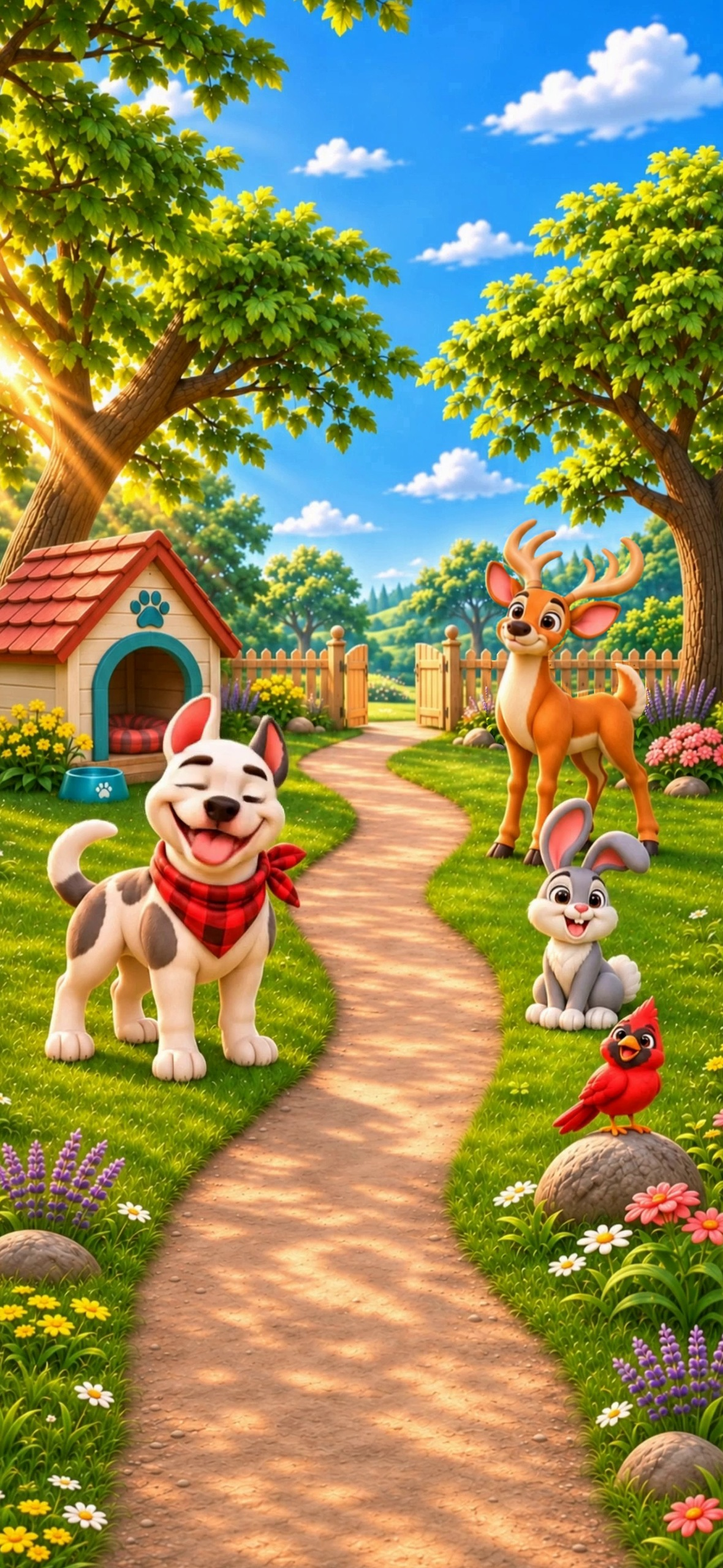
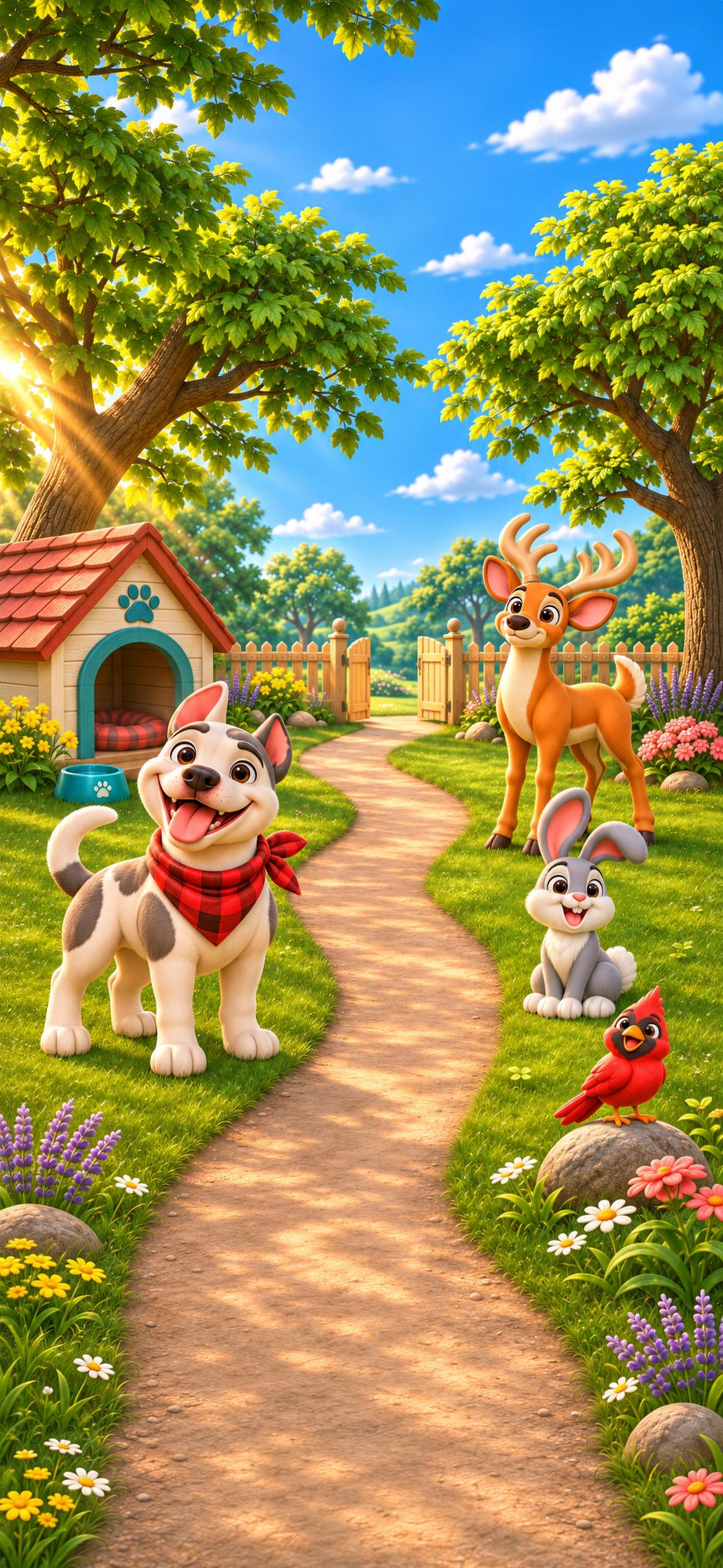
Map: all scenes still, Scene 1 back to the original art
Claude-Session: https://claude.ai/code/session_01HqXo8rXUgYFQ9xU7wUgcZu

diff --git a/bovo10/index.html b/bovo10/index.html
@@ -1,5 +1,5 @@
 <!doctype html>
-<html><head><meta charset="utf-8"><meta name="gbb-build" content="1795634110"><script src="../review_shim.js?v=4"></script><script src="../seamloop.js?v=3"></script><script src="../mp4box.min.js?v=1"></script><script src="../gaploop.js?v=1"></script><script src="livepaint.js?v=5"></script><script src="fountain.js?v=1"></script><script src="mapfx.js?v=3"></script><script src="../economy.js?v=2"></script><script src="../col.js?v=1"></script><script src="../fontA.js?v=5"></script><script src="../audio.js?v=33"></script><script src="../ui_life.js?v=18"></script>
+<html><head><meta charset="utf-8"><meta name="gbb-build" content="1795663621"><script src="../review_shim.js?v=4"></script><script src="../seamloop.js?v=3"></script><script src="../mp4box.min.js?v=1"></script><script src="../gaploop.js?v=1"></script><script src="livepaint.js?v=5"></script><script src="fountain.js?v=1"></script><script src="mapfx.js?v=3"></script><script src="../economy.js?v=2"></script><script src="../col.js?v=1"></script><script src="../fontA.js?v=5"></script><script src="../audio.js?v=33"></script><script src="../ui_life.js?v=18"></script>
 <meta name="viewport" content="width=device-width,initial-scale=1,maximum-scale=1,viewport-fit=cover">
 <title>Good Boy Bobo — Backyard map</title>
 <style>
@@ -28,7 +28,7 @@ html,body{margin:0;height:100%;overflow:hidden;background:#0d5f5f}
 #tag{position:fixed;z-index:9;left:8px;top:calc(var(--sat,env(safe-area-inset-top)) + 86px);font:700 11px system-ui;color:#fff;background:rgba(200,40,40,.85);padding:5px 8px;border-radius:9px}
 #hint{position:fixed;z-index:9;left:50%;transform:translateX(-50%);top:calc(var(--sat,env(safe-area-inset-top)) + 150px);font:800 14px system-ui;color:#fff;background:rgba(0,0,0,.45);padding:7px 12px;border-radius:14px;transition:opacity .6s}
 </style></head><body>
-<div id="scbg" style="position:fixed;inset:-40px;background:url(s1/still.jpg?v=4) center/cover;filter:blur(18px) brightness(.8)"></div><div id="sc"></div>
+<div id="scbg" style="position:fixed;inset:-40px;background:url(s1/still.jpg?v=5) center/cover;filter:blur(18px) brightness(.8)"></div><div id="sc"></div>
 <div id="hud"><div id="chn"><small>CHAPTER 1</small><span>The Backyard</span></div><div class="c3" style="left:calc(var(--w)*20.3);width:calc(var(--w)*113);height:calc(var(--w)*34.1)"><img src="../ui3/v2/cnt_heart.webp?v=2" alt="" style="position:absolute;left:-.71%;top:.232%;width:101.371%;height:101.848%"><div class="t" id="hH" style="left:36%;width:34%">5</div></div>
 <div class="c3" style="left:calc(var(--w)*142.5);width:calc(var(--w)*143);height:calc(var(--w)*34.6)"><img src="../ui3/v2/cnt_bone.webp?v=2" alt="" style="position:absolute;left:.054%;top:.229%;width:100.13%;height:100.376%"><div class="t" id="hB" style="left:32%;width:43%;height:97%">430</div></div>
 <div class="c3" style="left:calc(var(--w)*337.2);margin-top:calc(var(--w)*-1.4);width:calc(var(--w)*36.9);height:calc(var(--w)*37.8)"><img src="../ui3/v2/gear.webp?v=2" alt="" style="position:absolute;left:-1.519%;top:1.495%;width:102.376%;height:99.133%"></div></div>
@@ -119,7 +119,7 @@ function size(){const DPR=Math.min(2.5,devicePixelRatio||1),CW=window.GBB_COL?GB
 // ---- living scenes: MiniMax loop per scene (same frame at start and end, run-up file for an invisible iPhone hand-off).
 // Characters are frozen inside the clip; only the world moves. Only the scene on screen (and its neighbour) keeps a video.
 const LIVEV='?v=19';
-const LIVE_OK=new Set(['s1']);   // rebuilt seamless loops: these move even while MAP_MOTION is off
+const LIVE_OK=new Set([]);   // rebuilt seamless loops: these move even while MAP_MOTION is off
 function liveOn(S){if(S.lv||S.still||!window.SeamLoop||!(motion||LIVE_OK.has(S.dir)))return;
  if(S.paint&&window.LivePaint){   // living painting: the art itself moved by a wind field (no video)
   const PC=S.paint===1?{chars:1}:{chars:0,plate:'still.jpg'};const P=LivePaint(S,{...PC,v:'?v=2',amp:S.paint.amp,onFirst:()=>{if(S.lv&&S.lv.P===P){S.live=1;const g=S.fx.getContext('2d');g.clearRect(0,0,S.fx.width,S.fx.height)}}});
@@ -141,7 +141,7 @@ function liveOn(S){if(S.lv||S.still||!window.SeamLoop||!(motion||LIVE_OK.has(S.d
   rv.addEventListener('playing',()=>{if(S.lv)rv.style.opacity=S.rain>.5?.6:.44},{once:true});RL.play()}
  v.addEventListener('playing',()=>{if(!S.lv)return;v.style.opacity=1;S.live=1;setTimeout(()=>{const g=S.fx.getContext('2d');g.clearRect(0,0,S.fx.width,S.fx.height)},650)},{once:true});L.play()}
 function liveOff(S){if(!S.lv)return;if(S.lv.P){S.lv.P.close();S.lv=null;S.live=0;return}if(S.lv.G){S.lv.G.close();S.lv.cv.remove();if(S.lv.c)S.lv.c.remove();S.lv=null;S.live=0;return}S.lv.L.pause();if(S.lv.RL){S.lv.RL.pause();for(const e of S.lv.RL.els){e.removeAttribute('src');try{e.load()}catch(_){}e.remove()}}for(const e of S.lv.L.els){e.removeAttribute('src');try{e.load()}catch(_){}e.remove()}if(S.lv.c)S.lv.c.remove();S.lv=null;S.live=0}
-function ensure(S){if(!MAP_MOTION||(window.SeamLoop&&motion)){if(!S.under){const im=new Image();im.decoding='async';im.src=S.dir+'/still.jpg?v=4';im.style.cssText='position:absolute;inset:0;width:100%;height:100%;display:block';S.art.insertBefore(im,S.art.firstChild);S.under=im}return}  // living scenes: a light still under the video, no WebGL textures
+function ensure(S){if(!MAP_MOTION||(window.SeamLoop&&motion)){if(!S.under){const im=new Image();im.decoding='async';im.src=S.dir+'/still.jpg?v=5';im.style.cssText='position:absolute;inset:0;width:100%;height:100%;display:block';S.art.insertBefore(im,S.art.firstChild);S.under=im}return}  // living scenes: a light still under the video, no WebGL textures
  if(S.gl||S.loading)return;S.loading=1;initGL(S).finally(()=>S.loading=0)}
 function drop(S){if(!S.gl||S.loading)return;const e=S.gl.getExtension('WEBGL_lose_context');e&&e.loseContext();const c=document.createElement('canvas');c.width=S.cv.width;c.height=S.cv.height;S.art.replaceChild(c,S.cv);S.cv=c;S.gl=null;S.ready=0}
 function initGL(S){if(!S.under){const im=new Image();im.src=S.dir+'/scene.png?v=6';im.style.cssText='position:absolute;inset:0;width:100%;height:100%;display:block';S.art.insertBefore(im,S.art.firstChild);S.under=im}
@@ -159,7 +159,7 @@ function initGL(S){if(!S.under){const im=new Image();im.src=S.dir+'/scene.png?v=
 // ---- soft seams between scenes: where one picture ends and the next begins, each side gets a short blurred,
 // mirrored strip of its neighbour that fades out, so the hard dirt-to-sky line melts into a soft blend.
 // Drawn inside the art (under the markers, which stay sharp), so it scrolls with the pictures.
-const SEAMIMG={};function seamImg(S){if(!SEAMIMG[S.dir]){const im=new Image();im.src=S.dir+'/still.jpg?v=4';im.onload=()=>seamsSoon();SEAMIMG[S.dir]=im}return SEAMIMG[S.dir]}
+const SEAMIMG={};function seamImg(S){if(!SEAMIMG[S.dir]){const im=new Image();im.src=S.dir+'/still.jpg?v=5';im.onload=()=>seamsSoon();SEAMIMG[S.dir]=im}return SEAMIMG[S.dir]}
 let seamT=0;function seamsSoon(){clearTimeout(seamT);seamT=setTimeout(seams,120)}
 function seams(){const DPR=Math.min(2,devicePixelRatio||1);
  for(let i=0;i<SCENES.length-1;i++){const lo=SCENES[i],up=SCENES[i+1];const Hs=lo.el.clientHeight||innerHeight,FH=Math.round(Hs*.09);

diff --git a/game_new.html b/game_new.html
@@ -1,4 +1,4 @@
-<!doctype html><html><head><meta charset="utf-8"><meta name="gbb-build" content="1795634110"><script src="review_shim.js?v=4"></script><script src="economy.js?v=2"></script><meta name="viewport" content="width=device-width,initial-scale=1,maximum-scale=1,user-scalable=no,viewport-fit=cover"><title>Good Boy Bobo</title><script src="audio.js?v=33"></script><script src="motion.js?v=24"></script><script src="ui_life.js?v=18"></script><link rel="stylesheet" href="base.css?v=23"><link rel="stylesheet" href="uikit/kit.css?v=11">
+<!doctype html><html><head><meta charset="utf-8"><meta name="gbb-build" content="1795663621"><script src="review_shim.js?v=4"></script><script src="economy.js?v=2"></script><meta name="viewport" content="width=device-width,initial-scale=1,maximum-scale=1,user-scalable=no,viewport-fit=cover"><title>Good Boy Bobo</title><script src="audio.js?v=33"></script><script src="motion.js?v=24"></script><script src="ui_life.js?v=18"></script><link rel="stylesheet" href="base.css?v=23"><link rel="stylesheet" href="uikit/kit.css?v=11">
 <style>
 html,body{overscroll-behavior:none;touch-action:none;-webkit-user-select:none;user-select:none;-webkit-touch-callout:none}#app{touch-action:none}#app *{-webkit-touch-callout:none}
 #bgA,#bgB{position:absolute;inset:0;background-size:cover;background-position:center 42%;transition:opacity .9s}

diff --git a/bovo11/index.html b/bovo11/index.html
@@ -1,4 +1,4 @@
-<!doctype html><html><head><meta charset="utf-8"><meta name="gbb-build" content="1795634110"><script src="../review_shim.js?v=4"></script><script src="../economy.js?v=2"></script><script src="../col.js?v=1"></script><script src="../fontA.js?v=5"></script><script src="../audio.js?v=33"></script><script src="../ui_life.js?v=18"></script>
+<!doctype html><html><head><meta charset="utf-8"><meta name="gbb-build" content="1795663621"><script src="../review_shim.js?v=4"></script><script src="../economy.js?v=2"></script><script src="../col.js?v=1"></script><script src="../fontA.js?v=5"></script><script src="../audio.js?v=33"></script><script src="../ui_life.js?v=18"></script>
 <meta name="viewport" content="width=device-width,initial-scale=1,maximum-scale=1,viewport-fit=cover">
 <meta name="apple-mobile-web-app-capable" content="yes"><meta name="mobile-web-app-capable" content="yes"><meta name="apple-mobile-web-app-status-bar-style" content="black-translucent"><title>Good Boy Bobo — Home (new)</title>
 <style>

diff --git a/bovo11/settings.html b/bovo11/settings.html
@@ -1,4 +1,4 @@
-<!doctype html><html><head><meta charset="utf-8"><meta name="gbb-build" content="1795634110"><script src="../review_shim.js?v=4"></script><script src="../economy.js?v=2"></script><script src="../col.js?v=1"></script><script src="../fontA.js?v=5"></script><script src="../audio.js?v=33"></script><script src="../ui_life.js?v=18"></script>
+<!doctype html><html><head><meta charset="utf-8"><meta name="gbb-build" content="1795663621"><script src="../review_shim.js?v=4"></script><script src="../economy.js?v=2"></script><script src="../col.js?v=1"></script><script src="../fontA.js?v=5"></script><script src="../audio.js?v=33"></script><script src="../ui_life.js?v=18"></script>
 <meta name="viewport" content="width=device-width,initial-scale=1,maximum-scale=1,viewport-fit=cover">
 <meta name="apple-mobile-web-app-capable" content="yes"><meta name="mobile-web-app-capable" content="yes"><meta name="apple-mobile-web-app-status-bar-style" content="black-translucent">
 <title>Good Boy Bobo — Settings</title>

diff --git a/bovo11/friends.html b/bovo11/friends.html
@@ -1,4 +1,4 @@
-<!doctype html><html><head><meta charset="utf-8"><meta name="gbb-build" content="1795634110"><script src="../review_shim.js?v=4"></script><script src="../economy.js?v=2"></script><script src="../col.js?v=1"></script><script src="../fontA.js?v=5"></script><script src="../audio.js?v=33"></script><script src="../ui_life.js?v=18"></script>
+<!doctype html><html><head><meta charset="utf-8"><meta name="gbb-build" content="1795663621"><script src="../review_shim.js?v=4"></script><script src="../economy.js?v=2"></script><script src="../col.js?v=1"></script><script src="../fontA.js?v=5"></script><script src="../audio.js?v=33"></script><script src="../ui_life.js?v=18"></script>
 <meta name="viewport" content="width=device-width,initial-scale=1,maximum-scale=1,viewport-fit=cover">
 <meta name="apple-mobile-web-app-capable" content="yes"><meta name="mobile-web-app-capable" content="yes"><meta name="apple-mobile-web-app-status-bar-style" content="black-translucent">
 <title>Good Boy Bobo — Friends</title>

diff --git a/bovo11/toys.html b/bovo11/toys.html
@@ -1,4 +1,4 @@
-<!doctype html><html><head><meta charset="utf-8"><meta name="gbb-build" content="1795634110"><script src="../review_shim.js?v=4"></script><script src="../economy.js?v=2"></script><script src="../col.js?v=1"></script><script src="../fontA.js?v=5"></script><script src="../audio.js?v=33"></script><script src="../ui_life.js?v=18"></script>
+<!doctype html><html><head><meta charset="utf-8"><meta name="gbb-build" content="1795663621"><script src="../review_shim.js?v=4"></script><script src="../economy.js?v=2"></script><script src="../col.js?v=1"></script><script src="../fontA.js?v=5"></script><script src="../audio.js?v=33"></script><script src="../ui_life.js?v=18"></script>
 <meta name="viewport" content="width=device-width,initial-scale=1,maximum-scale=1,viewport-fit=cover">
 <meta name="apple-mobile-web-app-capable" content="yes"><meta name="mobile-web-app-capable" content="yes"><meta name="apple-mobile-web-app-status-bar-style" content="black-translucent">
 <title>Good Boy Bobo — Toy Box</title>

diff --git a/bovo11/shop.html b/bovo11/shop.html
@@ -1,4 +1,4 @@
-<!doctype html><html><head><meta charset="utf-8"><meta name="gbb-build" content="1795634110"><script src="../review_shim.js?v=4"></script><script src="../economy.js?v=2"></script><script src="../col.js?v=1"></script><script src="../fontA.js?v=5"></script><script src="../audio.js?v=33"></script><script src="../ui_life.js?v=18"></script>
+<!doctype html><html><head><meta charset="utf-8"><meta name="gbb-build" content="1795663621"><script src="../review_shim.js?v=4"></script><script src="../economy.js?v=2"></script><script src="../col.js?v=1"></script><script src="../fontA.js?v=5"></script><script src="../audio.js?v=33"></script><script src="../ui_life.js?v=18"></script>
 <meta name="viewport" content="width=device-width,initial-scale=1,maximum-scale=1,viewport-fit=cover">
 <meta name="apple-mobile-web-app-capable" content="yes"><meta name="mobile-web-app-capable" content="yes"><meta name="apple-mobile-web-app-status-bar-style" content="black-translucent">
 <title>Good Boy Bobo — Shop</title>

diff --git a/index.html b/index.html
@@ -1,4 +1,4 @@
-<!doctype html><html><head><meta charset="utf-8"><meta name="gbb-build" content="1795634110"><script src="review_shim.js?v=4"></script>
+<!doctype html><html><head><meta charset="utf-8"><meta name="gbb-build" content="1795663621"><script src="review_shim.js?v=4"></script>
 <meta name="viewport" content="width=device-width,initial-scale=1,maximum-scale=1,user-scalable=no,viewport-fit=cover">
 <meta name="apple-mobile-web-app-capable" content="yes"><meta name="mobile-web-app-capable" content="yes"><meta name="apple-mobile-web-app-status-bar-style" content="black-translucent">
 <title>Good Boy Bobo</title>

diff --git a/review.html b/review.html
@@ -1,4 +1,4 @@
-<!doctype html><html><head><meta charset="utf-8"><meta name="gbb-build" content="1795634110"><script src="review_shim.js?v=4"></script>
+<!doctype html><html><head><meta charset="utf-8"><meta name="gbb-build" content="1795663621"><script src="review_shim.js?v=4"></script>
 <meta name="viewport" content="width=device-width,initial-scale=1,viewport-fit=cover">
 <title>Good Boy Bobo — Review Build</title>
 <style>
